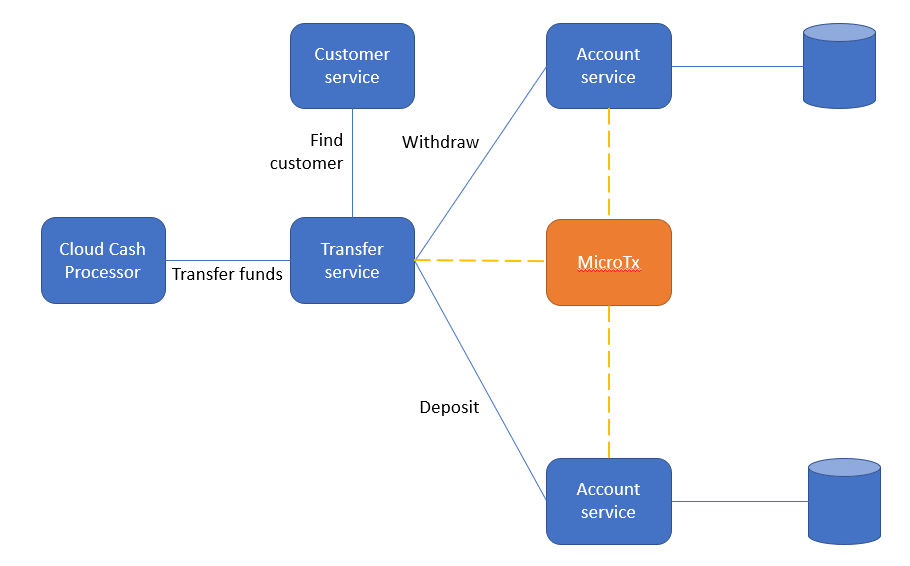
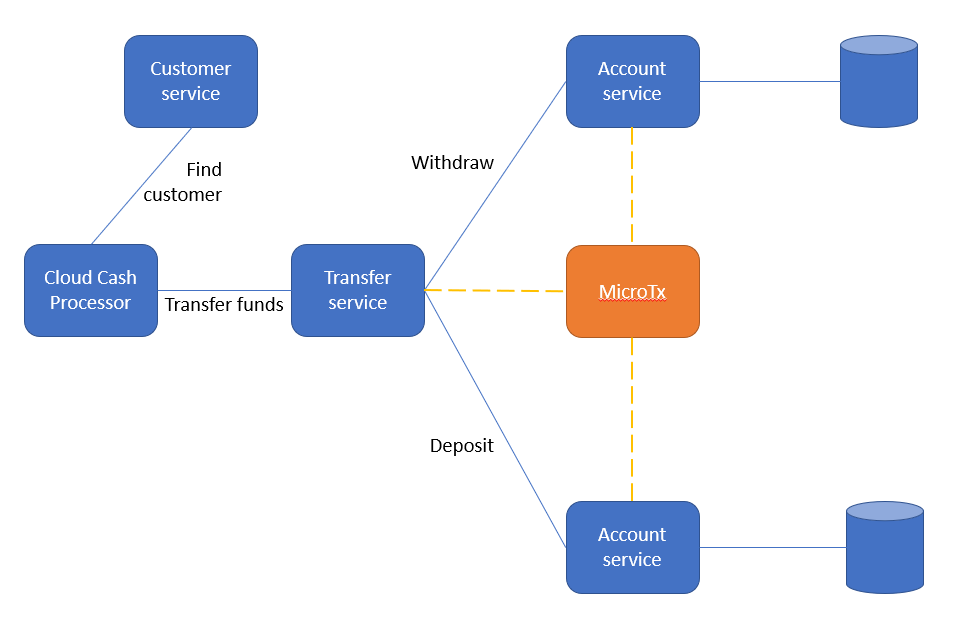
fix some todos, update the deployment and test stuff

diff --git a/obaas/microtx/microtx.md b/obaas/microtx/microtx.md
@@ -55,8 +55,7 @@ In this lab you will implement a saga that will manage transferring funds from o
 
 When the user submits their request, a microservice will pick up the request and invoke the **Transfer** service (which you will write in this lab) to process the transfer.
 
-The Transfer service will need to find the target customer using the provided email address, then perform a withdrawal and a deposit.  It will need to coordinaate these actions to make sure they all occur, and to perform compensation if there is a problem. 
-
+A Cloud Cash Payment Request Processor service (which you installed in the **Deploy the full CloudBank application** lab) will look up the target customer using the provided email address and invoke the Transfer server that you will write in this lab, which will perform a withdrawal and a deposit.  Your Transfer service will need to coordinaate these actions to make sure they all occur, and to perform compensation if there is a problem. 
 
 ## Task 2: Learn about Long Running Actions
 
@@ -101,7 +100,7 @@ You will update the Account service that you built in the previous lab to add so
 
 1. Add new dependencies to the Maven POM
 
-  TODO explain what these are for
+  Open the `pom.xml` in your `accounts` project and add these new dependencies to the list.  These add suport for Jersey and JAX-RS services and the LRA client libraries themselves.
 
     ```xml
     <copy>
@@ -127,7 +126,7 @@ You will update the Account service that you built in the previous lab to add so
     </copy>
     ```  
 
-   TODO more explanation
+   You will use JAX-RS because the current versions of the LRA libraries require it, as noted earlier.
 
 1. Update the Spring Boot application configuration file
 
@@ -659,11 +658,11 @@ The Data Access Object pattern is considered a best practice and it allows separ
     </copy>
     ```
 
-   TODO something
+   This completes the Data Access Object, now you can start implementing the actual business logic for the services.
 
 ## Task 6: Implement the deposit service's business logic
 
-TODO
+The deposit service will be responsible for depositing funds into accounts.  It will be an LRA participant, and so it will need to implement the LRA lifecycles actions like complete, compensate, and so on.  A significant amount of the logic will be shared with the withdrawal service, so you will also create a separate class for that shared logic, following the Data Access Object pattern, to keep the business layer separate from the persistence layer.
 
 1. Implement the business logic for the **deposit** method.
 
@@ -776,7 +775,7 @@ TODO
    This method should perform any steps necessary to finalize or clean up after the LRA.  In this case, all you need to do is update the status of the deposit entry in the journal.  Here is the code for this method:
 
     ```java
-    <copy> @PUT
+    <copy>@PUT
     @Path("/after")
     @AfterLRA
     @Consumes(MediaType.TEXT_PLAIN)
@@ -1382,7 +1381,20 @@ Now, you will create another new Spring Boot microservice application and implem
 
 ## Task 9: Deploy the Account and Transfer services to the backend
 
-TODO that
+The services are now completed and you are ready to deploy them to the Oracle Backend for Spring Boot.
+
+> **Note**: You already created the Kubernetes secrets necessary for the account service to access the Oracle Autonomous Database in a previous lab, and the Transfer service does not need access to the database.
+
+1. Prepare the Account and Transfer applications for deployment
+
+   Update the data source configuration in your `src/main/resources/application.yaml` as shown in the example below.  This will cause the service to read the correct database details that will be injected into its pod by the Oracle Backend for Spring Boot.  You need to do this for **each** of the two projects.
+
+    ```yaml
+    <copy>datasource:
+      url: ${CONNECT_STRING}
+      username: ${DB_USERNAME}
+      password: ${DB_PASSWORD}</copy>
+    ```
 
 1. Build the Account and Transfer applications into JAR files
 
@@ -1400,105 +1412,188 @@ TODO that
     ./transfer/target/transfer-0.0.1-SNAPSHOT.jar
     ```
 
-1. Deploy them
+1. Deploy the Account and Transfer applications
 
-   TODO copy the instructions from the other lab
+  You will now deploy your udpated account application and new transfer application to the Oracle Backend for Spring Boot using the CLI.  You will deploy into the `application` namespace, and the service names will be `account` and `transfer` respectively.  Run this command to reddeploy your account service, make sure you provide the correct path to your JAR files.  **Note**: You must set **isRedeploy** to **true** since you are updating the existing deployment:
+
+    ```shell
+    oractl> <copy>deploy --isRedeploy true --appName application --serviceName account --jarLocation /path/to/accounts/target/accounts-0.0.1-SNAPSHOT.jar --imageVersion 0.0.1</copy>
+    uploading... upload successful
+    building and pushing image... docker build and push successful
+    creating deployment and service... create deployment and service  = account, appName = application, isRedeploy = true successful
+    successfully deployed
+    ```
+
+   Run this command to reddeploy your account service, make sure you provide the correct path to your JAR files.
+
+    ```shell
+    oractl> <copy>deploy --isRedeploy false --appName application --serviceName transfer --jarLocation /path/to/transfer/target/transfer-0.0.1-SNAPSHOT.jar --imageVersion 0.0.1</copy>
+    uploading... upload successful
+    building and pushing image... docker build and push successful
+    creating deployment and service... create deployment and service  = transfer, appName = application, isRedeploy = true successful
+    successfully deployed
+    ```
+
+   Your applications are now deployed in the backend.
+
+1. Temporary workaround - **will be removed before Level Up 23**
+
+    > **Note**: Hello LiveLab QA testers!  This small workaround is required currently due to a small bug in the CLI.  THis will be removed before the Level Up 23 event.  This just adds the missing env vars and a volume mount for the TNSADMIN secret to the account deployment.
+
+   Create a file called `patch.json` with this content:
+
+    ```json
+    <copy>{
+      "spec": {
+        "template": {
+          "spec": { 
+            "containers": [
+              {
+                "name": "account",
+                "env": [
+                  {
+                    "name": "DB_USERNAME",
+                    "valueFrom": {
+                      "secretKeyRef": {
+                        "key": "db.username",
+                        "name": "account-db-secrets"
+                      }
+                    }
+                  },
+                  {
+                    "name": "DB_PASSWORD",
+                    "valueFrom": {
+                      "secretKeyRef": {
+                        "key": "db.password",
+                        "name": "account-db-secrets"
+                      }
+                    }
+                  }
+                ],
+                "volumeMounts": [
+                  {
+                    "mountPath": "/oracle/tnsadmin",
+                    "name": "tns-admin"
+                  }
+                ]
+              }
+            ],
+            "volumes": [
+              {
+                "name": "tns-admin",
+                "secret": {
+                  "defaultMode": 420,
+                  "secretName": "obaasdevdb-tns-admin"
+                }
+              }
+            ]
+          }
+        }
+      }
+    }</copy>
+    ```
+
+   Apply the patch to the deployments with these commands: 
+
+    ```shell
+    $ <copy>kubectl -n application patch deploy account -p "$(cat patch.json)"
+    kubectl -n application patch deploy transfer -p "$(cat patch.json)"</copy>
+    ```
+
+  This will add the TNSADMIN volume mount to your account deployment (and its pods) and the environment variables required to read the database credentials from the appropriate secret.
 
 
 ## Task 10: Run LRA test cases
 
-TODO what thing
+Now you can test your LRA to verify it performs correctly under various circumstances.
 
-1. This thing
+1. Start a tunnel to access the transfer service
 
-   TODO how.
+   Since the transfer service is not exposed outside the Kubernetes cluster, you will need to start a **kubectl** port forwarding tunnel to access its endpoints.
+
+    > **Note**: If you prefer, you can create a route in the APISIX API Gateway to expose the service.  The service will normally only be invoked from within the cluster, so you did not create a route for it.  However, you have learned how to create routes, so you may do that if you prefer.
+
+   Run this command to start the tunne:
+
+    ```shell
+    $ <copy>kubectl -n application port-forward svc/transfer 8080:8080</copy>
+    ```
+
+   Now the transfer service will be accessible at [http://localhost:8080/api/v1/transfer](http://localhost:8080/api/v1/transfer).
+
+1. Check the starting account balances
+
+   Before you start, check the balances of the two accounts that you will be transfering money between using this command.  Note that these accounts were created in an earlier step.  TODO check they were? or is in the liquibase? TODO 
 
     ```
     $ <copy>curl -s http://100.20.30.40/api/v1/account/66 | jq ; curl -s http://100.20.30.40/api/v1/account/67 | jq</copy>
     {
-    "accountBalance" : 10800,
-    "accountCustomerId" : null,
-    "accountId" : 66,
-    "accountName" : "testpaul1",
-    "accountOpenedDate" : null,
-    "accountOtherDetails" : null,
-    "accountType" : null
+        "accountBalance" : 10800,
+        "accountCustomerId" : null,
+        "accountId" : 66,
+        "accountName" : "testpaul1",
+        "accountOpenedDate" : null,
+        "accountOtherDetails" : null,
+        "accountType" : null
     }
     {
-    "accountBalance" : 10800,
-    "accountCustomerId" : null,
-    "accountId" : 67,
-    "accountName" : "testpaul2",
-    "accountOpenedDate" : null,
-    "accountOtherDetails" : null,
-    "accountType" : null
+        "accountBalance" : 10800,
+        "accountCustomerId" : null,
+        "accountId" : 67,
+        "accountName" : "testpaul2",
+        "accountOpenedDate" : null,
+        "accountOtherDetails" : null,
+        "accountType" : null
     }
     ``` 
 
-   TODO
+   Note that account 66 has $10,800 in this example, and account 67 has $10,800.  Your results may be different.
+
+1. Perform a transfer that should succeed
+
+   Run this command to perform a transfer that should succeed.  Note that both accounts exist and the amount of the transfer is less than the balance of the source account.
 
     ```    
     $ <copy>curl -X POST "http://localhost:8080/transfer?fromAccount=66&toAccount=67&amount=100"</copy>
     transfer status:withdraw succeeded deposit succeeded
     ```  
 
-   TODO
-
-    ```
-    $ <copy>curl -s http://100.20.30.40/api/v1/account/66 | jq ; curl -s http://100.20.30.40/api/v1/account/67 | jq</copy>
-    {
-    "accountBalance" : 10800,
-    "accountCustomerId" : null,
-    "accountId" : 66,
-    "accountName" : "testpaul1",
-    "accountOpenedDate" : null,
-    "accountOtherDetails" : null,
-    "accountType" : null
-    }
-    {
-    "accountBalance" : 10800,
-    "accountCustomerId" : null,
-    "accountId" : 67,
-    "accountName" : "testpaul2",
-    "accountOpenedDate" : null,
-    "accountOtherDetails" : null,
-    "accountType" : null
-    }
-    ``` 
-
-    ```
-    $ <copy>curl -X POST "http://localhost:8080/transfer?fromAccount=66&toAccount=67&amount=100"</copy>
-    transfer status:withdraw succeeded deposit succeeded
-    ```  
+   Check the two accounts again to confirm the transfer behaved as expected: 
 
     ```
     $ <copy>curl -s http://100.20.30.40/api/v1/account/66 | json_1 ; curl -s http://100.20.30.40/api/v1/account/67 | j1</copy>
     {
-    "accountBalance" : 10700,
-    "accountCustomerId" : null,
-    "accountId" : 66,
-    "accountName" : "testpaul1",
-    "accountOpenedDate" : null,
-    "accountOtherDetails" : null,
-    "accountType" : null
+        "accountBalance" : 10700,
+        "accountCustomerId" : null,
+        "accountId" : 66,
+        "accountName" : "testpaul1",
+        "accountOpenedDate" : null,
+        "accountOtherDetails" : null,
+        "accountType" : null
     }
     {
-    "accountBalance" : 10900,
-    "accountCustomerId" : null,
-    "accountId" : 67,
-    "accountName" : "testpaul2",
-    "accountOpenedDate" : null,
-    "accountOtherDetails" : null,
-    "accountType" : null
+        "accountBalance" : 10900,
+        "accountCustomerId" : null,
+        "accountId" : 67,
+        "accountName" : "testpaul2",
+        "accountOpenedDate" : null,
+        "accountOtherDetails" : null,
+        "accountType" : null
     }
     ``` 
 
-   TODO 
+   Notice that account 66 now has only $10,700 and account 67 has $10,900.  So the $100 was successfully transfered as expected.
+
+1. Perform a transfer that should fail due to insufficient funds in the source account
+
+   Run this command to attempt to transfer $100,000 from account 66 to account 67.  This should fail because account 66 does not have enough funds.
 
     ```
     $ <copy>curl -X POST "http://localhost:8080/transfer?fromAccount=66&toAccount=67&amount=100000"</copy>
     transfer status:withdraw failed: insufficient funds
     ``` 
+
+1. Perform a transfer that should fail due to the destination account not existing.
 
    TODO 
 
@@ -1507,6 +1602,36 @@ TODO what thing
     transfer status:withdraw succeeded deposit failed: account does not exist%  
     ```
 
+1. Access the applications logs to verify what happened in each case
+
+   Use the following command to find the names of the pods that your two applications are running in.  Your output will be slightly different:
+
+    ```shell
+    $ <copy>kubectl -n application get pods</copy>
+    NAME                            READY   STATUS    RESTARTS   AGE
+    account-d5d9786f4-jpvkh         1/1     Running   0          21h
+    customer-c6f8d97c-dlfg5         1/1     Running   0          10d
+    transfer-6d5c86576f-rxqdj       1/1     Running   0          21h
+    ```
+
+   Taking the pods names from this output for both account and transfer, access the logs with this command.  Your output will be different:
+
+    ```shell
+    $ <copy>kubectl -n application logs transfer-6d5c86576f-rxqdj</copy>
+    2023-03-04 21:52:12.421  INFO 1 --- [nio-8080-exec-3] TransferService                          : Started new LRA/transfer Id: http://otmm-tcs.otmm.svc.cluster.local:9000/api/v1/lra-coordinator/18a093ef-beb6-4065-bb6c-b9328c8bb3e5
+    2023-03-04 21:52:12.422  INFO 1 --- [nio-8080-exec-3] TransferService                          : withdraw accountId = 66, amount = 100
+    2023-03-04 21:52:12.426  INFO 1 --- [nio-8080-exec-3] TransferService                          : withdraw lraId = http://otmm-tcs.otmm.svc.cluster.local:9000/api/v1/lra-coordinator/18a093ef-beb6-4065-bb6c-b9328c8bb3e5
+    2023-03-04 21:52:12.615  INFO 1 --- [nio-8080-exec-3] TransferService                          : withdraw succeeded
+    2023-03-04 21:52:12.616  INFO 1 --- [nio-8080-exec-3] TransferService                          : deposit accountId = 6799999, amount = 100
+    2023-03-04 21:52:12.619  INFO 1 --- [nio-8080-exec-3] TransferService                          : deposit lraId = http://otmm-tcs.otmm.svc.cluster.local:9000/api/v1/lra-coordinator/18a093ef-beb6-4065-bb6c-b9328c8bb3e5
+    2023-03-04 21:52:12.726  INFO 1 --- [nio-8080-exec-3] TransferService                          : withdraw succeeded deposit failed: account does not exist
+    2023-03-04 21:52:12.726  INFO 1 --- [nio-8080-exec-3] TransferService                          : LRA/transfer action will be cancel
+    2023-03-04 21:52:12.757  INFO 1 --- [nio-8080-exec-1] TransferService                          : Received cancel for transfer : http://otmm-tcs.otmm.svc.cluster.local:9000/api/v1/lra-coordinator/18a093ef-beb6-4065-bb6c-b9328c8bb3e5
+    2023-03-04 21:52:12.817  INFO 1 --- [nio-8080-exec-2] TransferService                          : Process cancel for transfer : http://otmm-tcs.otmm.svc.cluster.local:9000/api/v1/lra-coordinator/18a093ef-beb6-4065-bb6c-b9328c8bb3e5
+    ```
+
+   In the example output above you can see one what happened during that last test you ran a moment ago.  Notice that the LRA started, the withdrawal succeeded, then the deposit failed because the account did not exist.  Then you can see that the next action is cancel, and then the LRA being canceled/compensated.
+   
 
 ## TODO OUTRO
 
